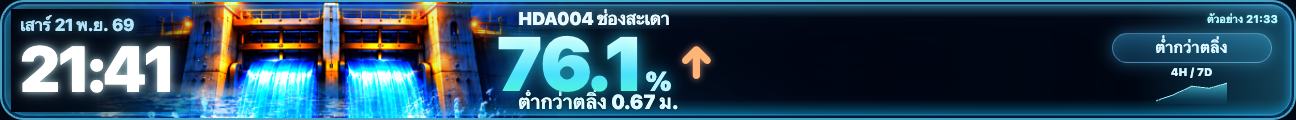
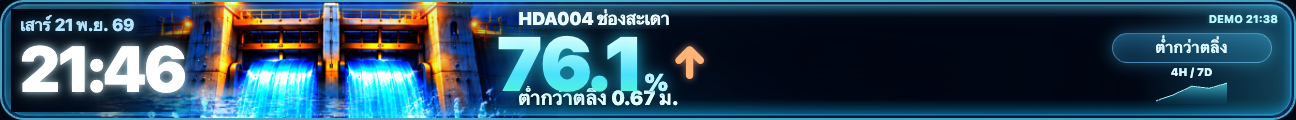
fix(demo): fit percent and distance boxes, visibly mark simulated water values

Changed region(s): [[0.4012, 0.375, 0.5556, 0.925], [0.0926, 0.35, 0.1543, 0.8], [0.9259, 0.1, 0.9877, 0.2]]

diff --git a/water-bank-original-style-20261121/water-preview-overrides.css b/water-bank-original-style-20261121/water-preview-overrides.css
@@ -3,18 +3,18 @@
 .widget.v3 .station-name{display:flex;align-items:flex-start;justify-content:space-between;gap:5px}
 .widget.v3 .station-name>span:first-child{min-width:0;overflow:hidden;text-overflow:ellipsis;white-space:nowrap}
 .widget.v3 .station-name .preview-stamp{font-size:11px;line-height:19px;color:#bcf7fc;letter-spacing:0;flex:none;font-weight:750;text-shadow:0 0 5px #30b9e86b}
-.widget.v3 .reading-row{gap:6px}
-.widget.v3 .big-level{font-size:68px;flex:none}
+.widget.v3 .reading-row{gap:3px}
+.widget.v3 .big-level{font-size:64px;flex:none}
 .widget.v3 .big-level.wide-pct{font-size:57px;letter-spacing:-2px}
-.widget.v3 .big-level .unit{font-size:27px;margin-left:3px;letter-spacing:0}
-.widget.v3 .preview-trend{display:inline-block;flex:none;font-size:39px;font-weight:950;line-height:1;align-self:center;
+.widget.v3 .big-level .unit{font-size:24px;margin-left:2px;letter-spacing:0}
+.widget.v3 .preview-trend{display:inline-block;flex:none;font-size:33px;font-weight:950;line-height:1;align-self:center;
  color:#91ebff;text-shadow:0 0 7px #5deaffc9;transform:translateY(-2px)}
 .widget.v3 .preview-trend.up{color:#ffb575;text-shadow:0 0 7px #ffad91aa}
 .widget.v3 .preview-trend.down{color:#89fbc6;text-shadow:0 0 8px #42ffacaa}
 .widget.v3 .preview-trend.flat{color:#b6e4f4}
 .widget.v3 .preview-trend.unknown{opacity:.55}
 .widget.v3 .reading-detail{justify-content:center}
-.widget.v3 .distance-to-bank{font-size:18px;line-height:23px;font-weight:900;white-space:nowrap;overflow:hidden;
+.widget.v3 .distance-to-bank{position:relative;top:-4px;max-width:230px;font-size:18px;line-height:23px;font-weight:900;white-space:nowrap;overflow:hidden;
  text-overflow:ellipsis;color:#edffff;text-shadow:0 0 7px #092844,0 1px 3px #000}
 .widget.v3 .reading-row{position:relative;z-index:5}
 .widget.v3.layout-focus .big-level{font-size:76px}

diff --git a/water-bank-original-style-20261121/water-preview-renderer.js b/water-bank-original-style-20261121/water-preview-renderer.js
@@ -69,7 +69,7 @@ function renderStation(st){
  const safePath=st.historyPath||'',coverage=trendCaption(st.historyReading);
  const gap=usable&&Number.isFinite(st.bankM)&&Number.isFinite(st.value)?st.bankM-st.value:null;
  const gapText=gap===null?(st.status==='historical'?'ข้อมูลเก่า · งดแสดง%':'รอข้อมูลอ้างอิง'):gap<-.000001?'สูงกว่าตลิ่ง '+Math.abs(gap).toFixed(2)+' ม.':Math.abs(gap)<.000001?'ถึงตลิ่งอ้างอิง':'ต่ำกว่าตลิ่ง '+gap.toFixed(2)+' ม.';
- const observedShort=usable?'ตัวอย่าง '+new Intl.DateTimeFormat('en-GB',{timeZone:'Asia/Bangkok',hour:'2-digit',minute:'2-digit',hour12:false}).format(new Date(st.observedAt)):'DEMO';
+ const observedShort=usable?'DEMO '+new Intl.DateTimeFormat('en-GB',{timeZone:'Asia/Bangkok',hour:'2-digit',minute:'2-digit',hour12:false}).format(new Date(st.observedAt)):'DEMO';
  const wide=usable&&pct>=100?' wide-pct':'';
  target.innerHTML=`<div class="station-card"><div class="art-zone"><canvas class="water-canvas" width="420" height="210" aria-label="ภาพการไหลประกอบ ไม่ใช่สถานะประตูจริง"></canvas></div>
  <div class="info"><div class="station-name"><span>${st.name}</span><small>HII REFERENCE</small><span class="preview-stamp">${observedShort}</span></div>
